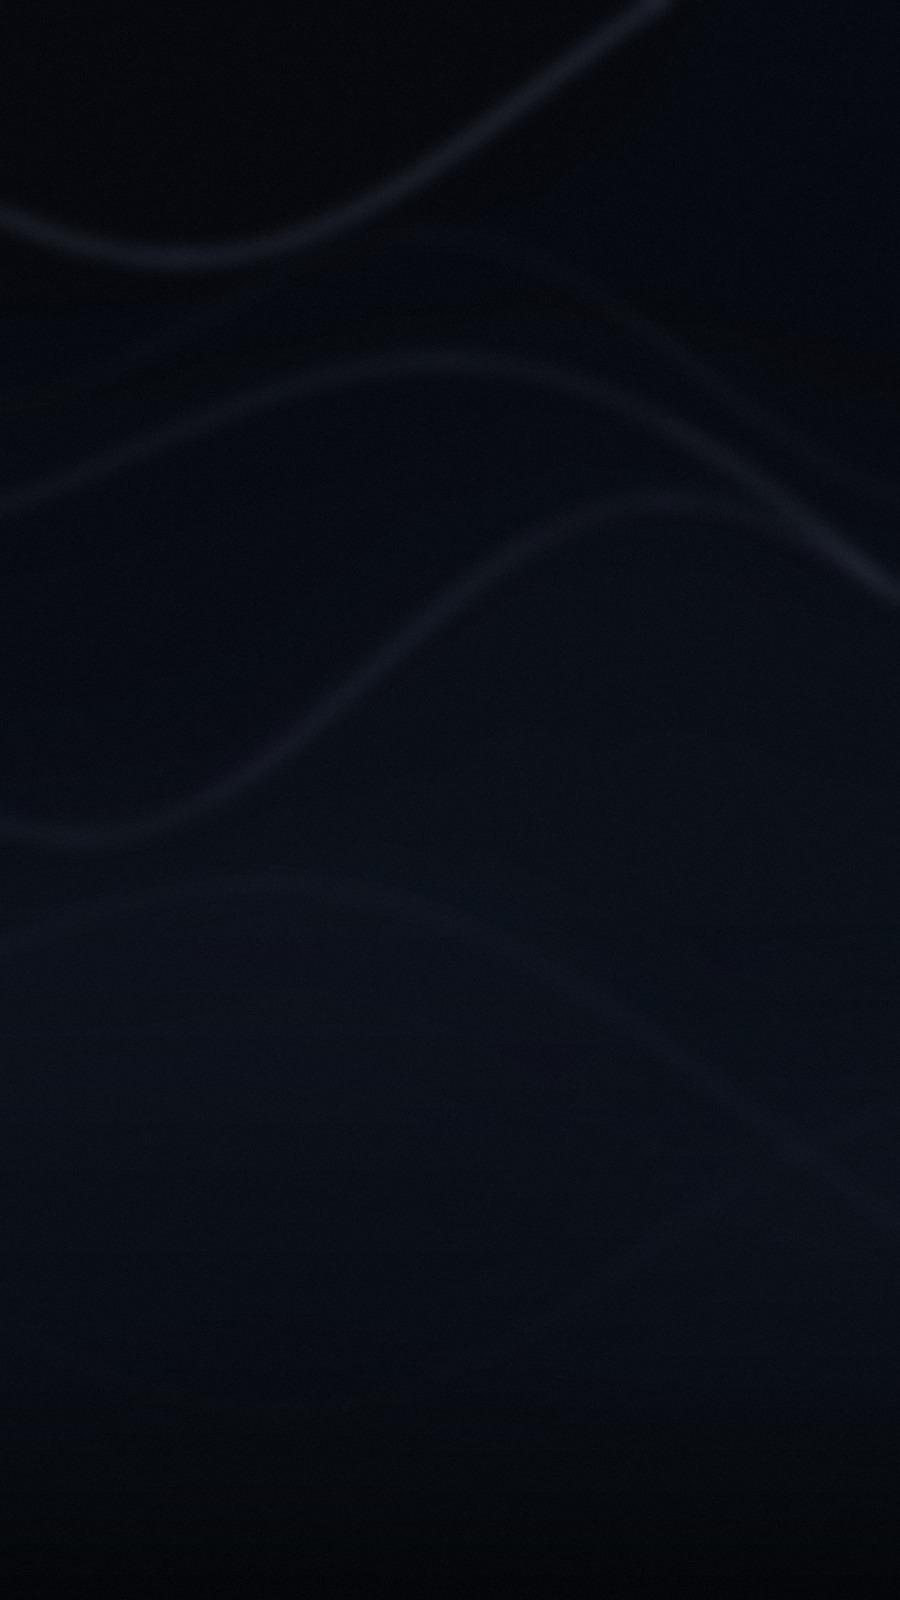
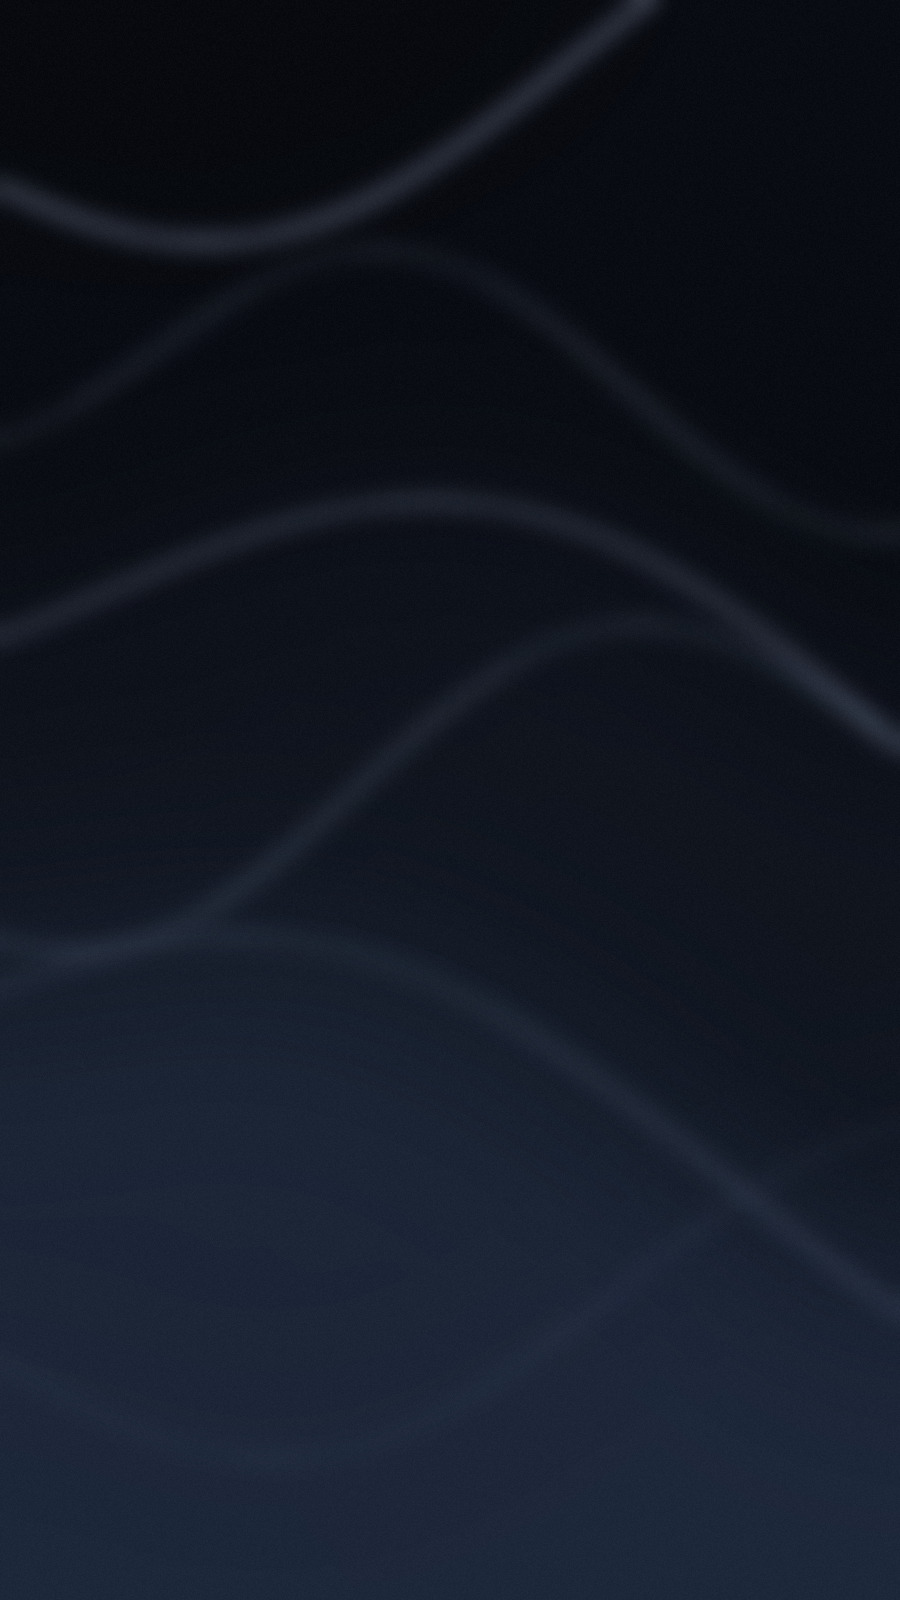
Take the floating bar's glass and give it to every surface
Only the glass from that reference, not the identity around it. What makes it
read as glass is the lit rim on all four sides, so that is what the cards, the
pills and the nav all carry now. The fill stays near clear — a grey fill reads
as grey, not as transparent, which is the trap the first attempt fell into.

The nav drops its own bespoke surface for the shared one, and its active tab
becomes a lighter rounded rectangle behind an unchanged icon, the way the
reference marks the current tab.

The wallpaper gains real light and shade, plus three slow colour blooms, because
a near-clear panel needs something behind it worth catching. The scrim comes
down to match, since any more of it flattens exactly that contrast.

Removes a stale duplicate .willo-glass left over from the graphite-card era that
this one had been silently overriding.

diff --git a/src/index.css b/src/index.css
@@ -110,22 +110,6 @@
 }
 
 @layer components {
-  /* Floating graphite card: hairline border, soft blur where supported. */
-  .willo-glass {
-    position: relative;
-    border-radius: 28px;
-    border: 1px solid rgba(255, 255, 255, 0.08);
-    background: rgba(20, 20, 20, 0.96);
-    box-shadow: 0 16px 40px -16px rgba(0, 0, 0, 0.7);
-  }
-  @supports ((backdrop-filter: blur(1px)) or (-webkit-backdrop-filter: blur(1px))) {
-    .willo-glass {
-      background: rgba(22, 22, 22, 0.78);
-      backdrop-filter: blur(20px) saturate(140%);
-      -webkit-backdrop-filter: blur(20px) saturate(140%);
-    }
-  }
-
   /* Smaller nested glass surface (chips, sub-cards inside a .willo-glass
      card) — same treatment, lighter tint, tighter radius. */
   .willo-glass-chip {
@@ -135,16 +119,15 @@
     background: rgba(255, 255, 255, 0.04);
   }
 
-  /* Screen background: graphite-to-black fade with faint concentric rings in
-     the top-right corner. Children paint above the ::before (isolation). */
+  /* Screen background: the wallpaper everything sits on. */
   .willo-bg {
     position: relative;
     isolation: isolate;
     background: #000000;
   }
-  /* The wallpaper the whole app sits on, pinned to the viewport so cards slide over
-     it rather than carrying it with them. A scrim rides on top: the photo has bright
-     amber in it, and white text on near-clear glass needs the range pulled back. */
+  /* Pinned to the viewport, so cards slide over the wallpaper rather than carrying
+     it with them. The scrim is light: it only has to keep white text safe, and any
+     more flattens the contrast the glass needs to pick up. */
   .willo-bg::before {
     content: "";
     position: fixed;
@@ -153,37 +136,36 @@
     pointer-events: none;
     background:
       linear-gradient(180deg,
-        rgba(2, 4, 8, 0.26) 0%,
-        rgba(2, 4, 8, 0.12) 34%,
-        rgba(2, 4, 8, 0.30) 70%,
-        rgba(2, 4, 8, 0.58) 100%),
+        rgba(2, 4, 8, 0.16) 0%,
+        rgba(2, 4, 8, 0.04) 34%,
+        rgba(2, 4, 8, 0.18) 70%,
+        rgba(2, 4, 8, 0.44) 100%),
       url("./assets/bg/night-silk.jpg") center / cover no-repeat;
   }
 
-  /* Card surface, the way an iOS notification sits on the wallpaper: translucent,
-     blurred, and tinted by whatever colour is behind it. */
+  /* Floating graphite card: hairline border, soft blur where supported. */
   .willo-glass {
-    /* Glass, not frost. A milky fill plus a heavy blur reads as etched plastic; real
-       glass is mostly see-through and gets its presence from the lit rim and a sheen
-       raking across it. So the fill is almost nothing, the blur is short enough to
-       keep the wallpaper legible through it, and brightness does the lifting the
-       white fill used to do. */
-    background-color: rgba(255, 255, 255, 0.03);
+    /* The floating bar's glass: a lit rim on all four sides is what sells it. The
+       fill only has to carry enough body for the rim to sit on; the edge does the
+       rest, which is why this reads as glass at low opacity. */
+    background-color: rgba(255, 255, 255, 0.02);
     background-image: linear-gradient(
       152deg,
-      rgba(255, 255, 255, 0.17) 0%,
-      rgba(255, 255, 255, 0.05) 36%,
-      rgba(255, 255, 255, 0.028) 63%,
-      rgba(255, 255, 255, 0.11) 100%
+      rgba(255, 255, 255, 0.15) 0%,
+      rgba(255, 255, 255, 0.03) 38%,
+      rgba(255, 255, 255, 0.015) 64%,
+      rgba(255, 255, 255, 0.09) 100%
     );
-    backdrop-filter: blur(11px) saturate(170%) brightness(1.24);
-    -webkit-backdrop-filter: blur(11px) saturate(170%) brightness(1.24);
+    backdrop-filter: blur(16px) saturate(145%) brightness(1.16);
+    -webkit-backdrop-filter: blur(16px) saturate(145%) brightness(1.16);
     box-shadow:
-      inset 0 1px 0 rgba(255, 255, 255, 0.34),
-      inset 0 -1px 0 rgba(255, 255, 255, 0.09),
-      inset 1px 0 0 rgba(255, 255, 255, 0.09),
-      inset -1px 0 0 rgba(255, 255, 255, 0.09);
+      inset 0 1.6px 0 rgba(255, 255, 255, 0.55),
+      inset 0 -1.6px 0 rgba(255, 255, 255, 0.28),
+      inset 1.6px 0 0 rgba(255, 255, 255, 0.22),
+      inset -1.6px 0 0 rgba(255, 255, 255, 0.22),
+      0 16px 34px -14px rgba(0, 0, 0, 0.7);
   }
+
   /* Sheets and modals: the same glass, darkened, because arbitrary page content
      sits behind them and the text on top still has to be readable. */
   .willo-glass-strong {
@@ -217,11 +199,17 @@
   /* Pills and round buttons: the same glass as a card, but thinner and brighter at
      the rim, so a control reads as a control and not as a panel. */
   .willo-glass-control {
-    background-color: rgba(255, 255, 255, 0.04);
-    background-image: linear-gradient(160deg, rgba(255, 255, 255, 0.19) 0%, rgba(255, 255, 255, 0.05) 55%, rgba(255, 255, 255, 0.12) 100%);
-    backdrop-filter: blur(9px) saturate(170%) brightness(1.26);
-    -webkit-backdrop-filter: blur(9px) saturate(170%) brightness(1.26);
+    background-color: rgba(255, 255, 255, 0.03);
+    background-image: linear-gradient(160deg, rgba(255, 255, 255, 0.15) 0%, rgba(255, 255, 255, 0.04) 58%, rgba(255, 255, 255, 0.09) 100%);
+    backdrop-filter: blur(15px) saturate(145%) brightness(1.18);
+    -webkit-backdrop-filter: blur(15px) saturate(145%) brightness(1.18);
+    box-shadow:
+      inset 0 1.4px 0 rgba(255, 255, 255, 0.55),
+      inset 0 -1.4px 0 rgba(255, 255, 255, 0.26),
+      inset 1.4px 0 0 rgba(255, 255, 255, 0.20),
+      inset -1.4px 0 0 rgba(255, 255, 255, 0.20);
   }
+
   /* A surface nested inside glass: tint only. A second blur samples the already
      blurred parent and just turns the whole stack to mud — and costs a layer. */
   .willo-glass-inset {

diff --git a/src/components/dashboard/MobileBottomNav.tsx b/src/components/dashboard/MobileBottomNav.tsx
@@ -19,14 +19,6 @@ export const navItems: {
   { icon: Camera, label: "Escanear", scan: true },
 ];
 
-/** Same dark, translucent "droplet-glass" surface as BalanceHeroCard. */
-export const GLASS_BG = {
-  background: "linear-gradient(165deg, rgba(34,34,34,0.88) 0%, rgba(20,20,20,0.92) 100%)",
-  backdropFilter: "blur(24px) saturate(160%)",
-  WebkitBackdropFilter: "blur(24px) saturate(160%)",
-  boxShadow: "inset 0 1px 0 0 rgba(255,255,255,0.14), 0 12px 32px -12px rgba(0,0,0,0.6)",
-} as const;
-
 const MobileBottomNav = memo(() => {
   const [isOpen, setIsOpen] = useState(false);
   const navigate = useNavigate();
@@ -78,7 +70,7 @@ export function BottomNavBar({ activePath, plusOpen = false, onNavigate, onPlus 
 }) {
   return (
     <>
-      <nav className="flex-1 max-w-[280px] rounded-full border border-white/10" style={GLASS_BG}>
+      <nav className="willo-glass flex-1 max-w-[280px] rounded-full">
         <div className="flex items-center justify-around h-[58px] px-1.5">
           {navItems.map((item) => {
             const Icon = item.icon;
@@ -93,8 +85,8 @@ export function BottomNavBar({ activePath, plusOpen = false, onNavigate, onPlus 
                 }}
                 aria-label={item.soon ? `${item.label} — em breve` : item.label}
                 className={cn(
-                  "relative flex items-center justify-center h-11 flex-1 mx-0.5 rounded-full transition-colors",
-                  isActive ? "bg-white/12" : item.soon ? "" : "hover:bg-white/5",
+                  "relative flex items-center justify-center h-11 flex-1 mx-0.5 rounded-[15px] transition-colors",
+                  isActive ? "bg-white/[0.17]" : item.soon ? "" : "hover:bg-white/[0.07]",
                 )}
               >
                 <Icon
@@ -117,10 +109,9 @@ export function BottomNavBar({ activePath, plusOpen = false, onNavigate, onPlus 
         onClick={onPlus}
         aria-label="Adicionar transação"
         className={cn(
-          "relative w-[58px] h-[58px] rounded-full flex items-center justify-center border shrink-0 transition-colors",
-          plusOpen ? "bg-white border-white" : "border-white/10"
+          "relative w-[58px] h-[58px] rounded-full flex items-center justify-center shrink-0 transition-colors",
+          plusOpen ? "bg-white" : "willo-glass"
         )}
-        style={plusOpen ? undefined : GLASS_BG}
       >
         <motion.div animate={{ rotate: plusOpen ? 135 : 0 }} transition={{ type: "spring", stiffness: 380, damping: 24 }}>
           <Plus className={cn("w-6 h-6", plusOpen ? "text-[#0B0B0B]" : "text-white")} strokeWidth={2.25} />
